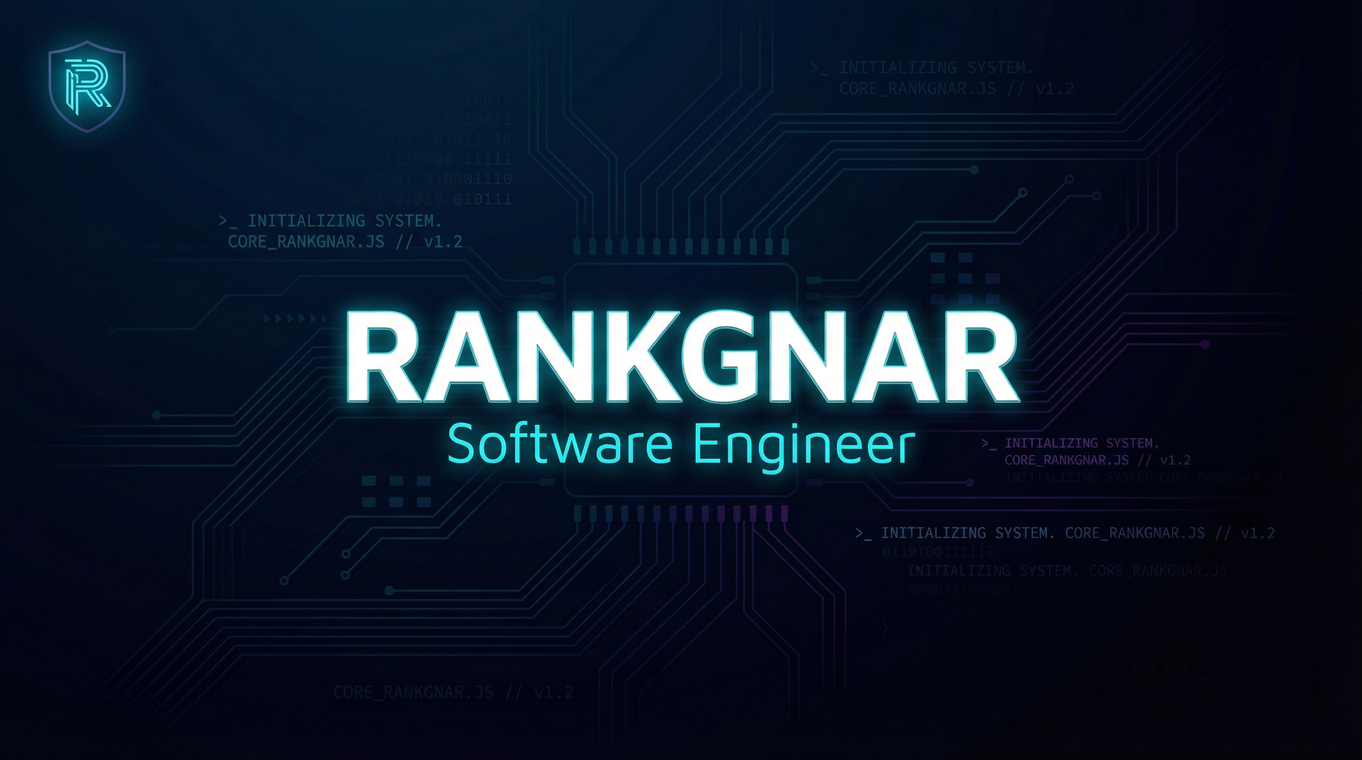
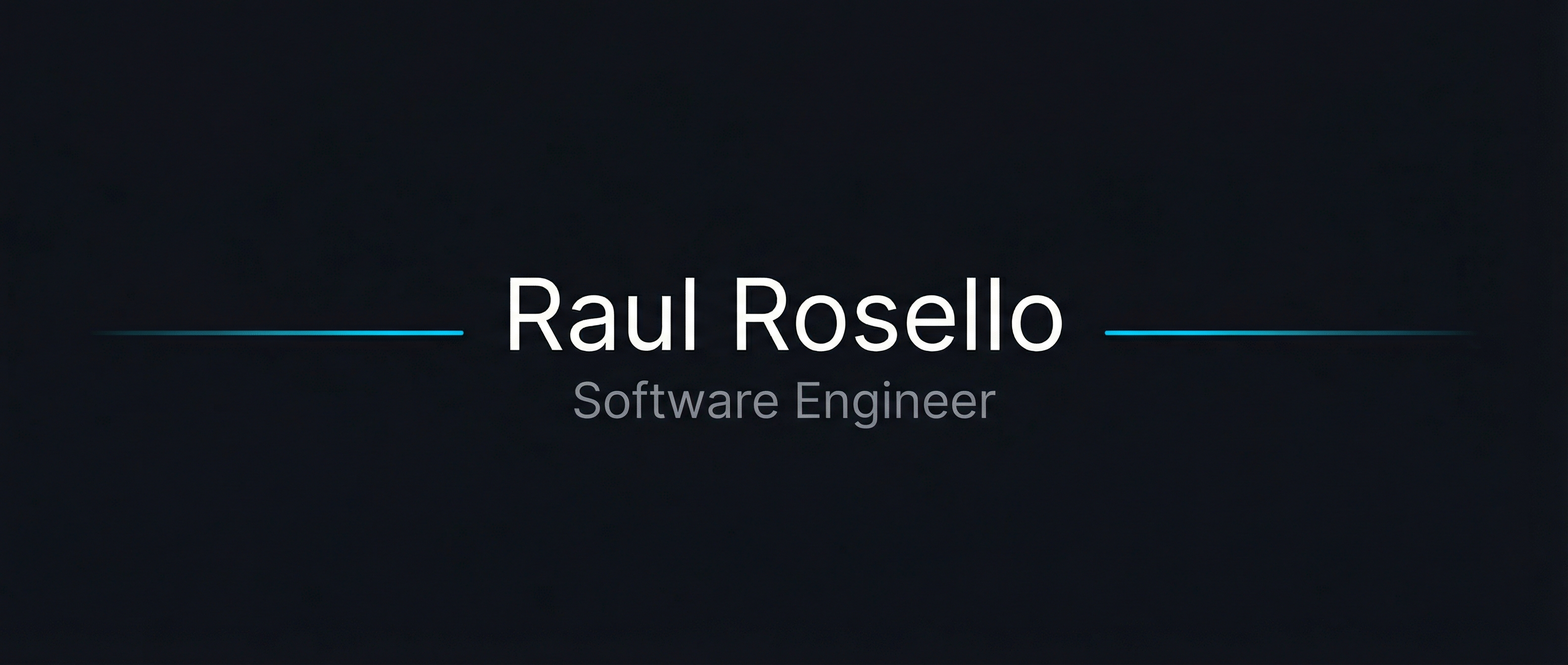
Rewrite profile — clean, professional design

diff --git a/README.md b/README.md
@@ -1,328 +1,49 @@
 <div align="center">
 
-<!-- ═══════════════════════════════════════════════════════════════ -->
-<!-- HEADER -->
-<!-- ═══════════════════════════════════════════════════════════════ -->
-
-<img src="./assets/banner.png" alt="RANKGNAR — Software Engineer" width="100%" />
-
-<br>
-
-<!-- ═══════════════════════════════════════════════════════════════ -->
-<!-- BADGES -->
-<!-- ═══════════════════════════════════════════════════════════════ -->
-
-<a href="https://github.com/rankgnar?tab=followers">
-  <img src="https://img.shields.io/github/followers/rankgnar?style=for-the-badge&logo=github&logoColor=00d4ff&labelColor=0d1117&color=003554" />
-</a>
-&nbsp;
-<img src="https://komarev.com/ghpvc/?username=rankgnar&style=for-the-badge&color=003554&label=PROFILE+VIEWS&labelColor=0d1117" />
-&nbsp;
-<img src="https://img.shields.io/badge/🔨_BUILDING_SOMETHING_BIG-00d4ff?style=for-the-badge&labelColor=0d1117" />
+<img src="./assets/banner.png" alt="Raul Rosello — Software Engineer" width="100%" />
 
 <br><br>
 
-<!-- ═══════════════════════════════════════════════════════════════ -->
-<!-- TYPING SVG -->
-<!-- ═══════════════════════════════════════════════════════════════ -->
-
-<a href="https://github.com/rankgnar">
-  <img src="https://readme-typing-svg.demolab.com?font=JetBrains+Mono&weight=700&size=24&duration=3000&pause=1000&color=00D4FF&center=true&vCenter=true&multiline=true&repeat=true&width=700&height=100&lines=I+turn+ideas+into+revenue+machines.;AI+%C2%B7+Automation+%C2%B7+Scalable+Systems;Less+meetings.+More+shipping.;Your+tech+should+work+for+you+%E2%80%94+not+the+other+way+around." />
-</a>
-
-<br>
-
-<!-- ═══════════════════════════════════════════════════════════════ -->
-<!-- SEPARATOR -->
-<!-- ═══════════════════════════════════════════════════════════════ -->
-
-<img src="https://user-images.githubusercontent.com/73097560/115834477-dbab4500-a447-11eb-908a-139a6edaec5c.gif" width="100%">
+[![GitHub](https://img.shields.io/github/followers/rankgnar?label=Follow&style=flat-square&logo=github&logoColor=white&color=0d1117)](https://github.com/rankgnar)
+[![LinkedIn](https://img.shields.io/badge/LinkedIn-Connect-0A66C2?style=flat-square&logo=linkedin)](https://linkedin.com/in/rankgnar)
 
 </div>
 
-<!-- ═══════════════════════════════════════════════════════════════ -->
-<!-- ABOUT — TERMINAL STYLE -->
-<!-- ═══════════════════════════════════════════════════════════════ -->
+---
 
-<br>
+### About
 
-<div align="center">
-  <h2>
-    <img src="https://media.giphy.com/media/iY8CRBdQXODJSCERIr/giphy.gif" width="28">
-    &nbsp; <code>$ whoami</code>
-  </h2>
-</div>
+Software engineer based in Stockholm, specializing in AI systems, full-stack development, and developer tooling. I build products that solve real problems — from SaaS platforms to security tools for the AI ecosystem.
 
-```js
-// raul.config.js
+Currently focused on AI agent infrastructure and MCP server security.
 
-const raul = {
-    location:    "Stockholm, Sweden 🇸🇪",
-    role:        "Founder & Tech Architect",
-    mission:     "Build systems that print money while you sleep",
+---
 
-    superpower:  "Turning 'that's impossible' into a deployed product",
-    philosophy:  "Ship fast. Measure everything. Let the data decide.",
+### Work
 
-    current:     "Building an elite tech agency from scratch",
-    previous:    "Broke things at scale, then fixed them better",
+| Project | Description | Stack |
+|:--------|:------------|:------|
+| [mcp-audit](https://github.com/rankgnar/mcp-audit) | Security auditor for MCP servers. Detects prompt injection, shadow tools, and data exfiltration. | TypeScript, AST analysis |
+| [fortnox-mcp-server](https://github.com/rankgnar/fortnox-mcp-server) | Read-only MCP server for the Fortnox ERP API. | TypeScript, OAuth2, MCP |
+| [deslop](https://github.com/rankgnar/deslop) | CLI tool to detect and remove AI writing patterns from text. | Python |
+| [vps-secure-setup](https://github.com/rankgnar/vps-secure-setup) | Interactive wizard for hardening VPS servers — SSH, Tailscale, user management. | Bash |
+| [agent-homebase](https://github.com/rankgnar/agent-homebase) | Turn a blank VPS into a 24/7 AI agent with persistent memory and Telegram access. | Node.js, Bun |
 
-    contact:     "If you have a problem and no one else can help,",
-    motto:       "maybe you should hire my team.",
-};
+---
 
-export default raul;
-```
+### Stack
 
-<br>
+**Languages:** TypeScript, Python, Bash
+**Frontend:** React, Next.js, Tailwind CSS
+**Backend:** Node.js, PostgreSQL, Redis
+**AI/ML:** OpenAI, Anthropic Claude, LangChain, RAG pipelines
+**Infra:** Linux, Docker, AWS, Tailscale
 
-<div align="center">
-<img src="https://user-images.githubusercontent.com/73097560/115834477-dbab4500-a447-11eb-908a-139a6edaec5c.gif" width="100%">
-</div>
+---
 
-<br>
+### Contact
 
-<!-- ═══════════════════════════════════════════════════════════════ -->
-<!-- SERVICES -->
-<!-- ═══════════════════════════════════════════════════════════════ -->
+Open to collaborations on AI tooling, security, and developer infrastructure.
 
-<div align="center">
-  <h2>⚡ What I Build</h2>
-  <p><i>End-to-end execution. No fluff. No scope creep.</i></p>
-</div>
-
-<br>
-
-<div align="center">
-<table>
-<tr>
-<td align="center" width="25%">
-
-<br>
-
-<h3>🤖 AI Solutions</h3>
-
-Custom AI agents, LLM integrations, RAG pipelines & intelligent automation that actually saves you money.
-
-<br>
-
-</td>
-<td align="center" width="25%">
-
-<br>
-
-<h3>⚙ Automation</h3>
-
-Kill repetitive work. Workflow engines, API orchestration & zero-touch pipelines that run 24/7.
-
-<br>
-
-</td>
-<td align="center" width="25%">
-
-<br>
-
-<h3>🏗 SaaS & Platforms</h3>
-
-Full-stack MVPs to production systems. Architected for scale from day one, not bolted on later.
-
-<br>
-
-</td>
-<td align="center" width="25%">
-
-<br>
-
-<h3>📊 Data & Analytics</h3>
-
-Real-time dashboards, data pipelines & BI systems that turn noise into actionable decisions.
-
-<br>
-
-</td>
-</tr>
-</table>
-</div>
-
-<br>
-
-<div align="center">
-<img src="https://user-images.githubusercontent.com/73097560/115834477-dbab4500-a447-11eb-908a-139a6edaec5c.gif" width="100%">
-</div>
-
-<br>
-
-<!-- ═══════════════════════════════════════════════════════════════ -->
-<!-- TECH STACK -->
-<!-- ═══════════════════════════════════════════════════════════════ -->
-
-<div align="center">
-  <h2>🛠 Tech Arsenal</h2>
-  <p><i>The right tool for the right job. Always.</i></p>
-
-<br>
-
-**`Languages & Frameworks`**
-
-<a href="https://skillicons.dev">
-  <img src="https://skillicons.dev/icons?i=ts,js,python,rust,react,nextjs,nodejs,tailwind&theme=dark" />
-</a>
-
-<br><br>
-
-**`Cloud, DevOps & Tools`**
-
-<a href="https://skillicons.dev">
-  <img src="https://skillicons.dev/icons?i=aws,gcp,docker,kubernetes,postgres,redis,github,linux&theme=dark" />
-</a>
-
-<br><br>
-
-**`AI & Machine Learning`**
-
-<br>
-
-<img src="https://img.shields.io/badge/OpenAI-412991?style=for-the-badge&logo=openai&logoColor=white" />
-<img src="https://img.shields.io/badge/Anthropic_Claude-191919?style=for-the-badge&logo=anthropic&logoColor=white" />
-<img src="https://img.shields.io/badge/LangChain-1C3C3C?style=for-the-badge&logo=langchain&logoColor=white" />
-<img src="https://img.shields.io/badge/Hugging_Face-FFD21E?style=for-the-badge&logo=huggingface&logoColor=black" />
-<img src="https://img.shields.io/badge/PyTorch-EE4C2C?style=for-the-badge&logo=pytorch&logoColor=white" />
-<img src="https://img.shields.io/badge/Vector_DBs-00d4ff?style=for-the-badge&logoColor=white" />
-
-</div>
-
-<br>
-
-<div align="center">
-<img src="https://user-images.githubusercontent.com/73097560/115834477-dbab4500-a447-11eb-908a-139a6edaec5c.gif" width="100%">
-</div>
-
-<br>
-
-<!-- ═══════════════════════════════════════════════════════════════ -->
-<!-- STATS -->
-<!-- ═══════════════════════════════════════════════════════════════ -->
-
-<div align="center">
-  <h2>📈 By The Numbers</h2>
-</div>
-
-<br>
-
-<div align="center">
-  <a href="https://github.com/rankgnar">
-    <img height="180em" src="https://github-readme-stats.vercel.app/api?username=rankgnar&show_icons=true&theme=github_dark_dimmed&bg_color=0d1117&title_color=00d4ff&icon_color=00d4ff&text_color=c9d1d9&border_color=003554&hide_border=false&count_private=true" />
-  </a>
-  &nbsp;&nbsp;
-  <a href="https://github.com/rankgnar">
-    <img height="180em" src="https://github-readme-stats.vercel.app/api/top-langs/?username=rankgnar&layout=compact&theme=github_dark_dimmed&bg_color=0d1117&title_color=00d4ff&text_color=c9d1d9&border_color=003554&hide_border=false&langs_count=8" />
-  </a>
-</div>
-
-<br>
-
-<div align="center">
-  <a href="https://github.com/rankgnar">
-    <img src="https://github-readme-streak-stats.herokuapp.com/?user=rankgnar&theme=github-dark-blue&background=0d1117&ring=00d4ff&fire=00d4ff&currStreakLabel=00d4ff&sideLabels=58a6ff&border=003554" width="55%" />
-  </a>
-</div>
-
-<br>
-
-<div align="center">
-  <a href="https://github.com/rankgnar">
-    <img src="https://github-readme-activity-graph.vercel.app/graph?username=rankgnar&bg_color=0d1117&color=58a6ff&line=00d4ff&point=ffffff&area_color=003554&area=true&hide_border=false&custom_title=Contribution%20Graph&border_color=003554" width="95%" />
-  </a>
-</div>
-
-<br>
-
-<div align="center">
-<img src="https://user-images.githubusercontent.com/73097560/115834477-dbab4500-a447-11eb-908a-139a6edaec5c.gif" width="100%">
-</div>
-
-<br>
-
-<!-- ═══════════════════════════════════════════════════════════════ -->
-<!-- CURRENTLY BUILDING -->
-<!-- ═══════════════════════════════════════════════════════════════ -->
-
-<div align="center">
-  <h2>🔮 Currently Building</h2>
-  <p><i>Something is coming. And it's not another to-do app.</i></p>
-</div>
-
-<br>
-
-<div align="center">
-
-```
-┌─────────────────────────────────────────────────────────────────┐
-│                                                                 │
-│   PROJECT: ███████████████████████  [CLASSIFIED]                │
-│                                                                 │
-│   Type ........... Elite Tech Agency                            │
-│   Status ......... Stealth Mode 🟢                              │
-│   Location ....... Stockholm, SE                                │
-│   Team ........... Handpicked operators only                    │
-│                                                                 │
-│   ┌───────────────────────────────────────────────────────┐     │
-│   │ Core Infrastructure     ██████████████████░░░░  82%   │     │
-│   │ AI Agent Framework      ███████████████████░░░  88%   │     │
-│   │ Client Pipeline         █████████████░░░░░░░░░  60%   │     │
-│   │ Automation Suite        ████████████████████░░  92%   │     │
-│   │ World Domination        ██░░░░░░░░░░░░░░░░░░░  12%   │     │
-│   └───────────────────────────────────────────────────────┘     │
-│                                                                 │
-│   "We don't build websites. We build unfair advantages."        │
-│                                                                 │
-└─────────────────────────────────────────────────────────────────┘
-```
-
-</div>
-
-<br>
-
-<div align="center">
-<img src="https://user-images.githubusercontent.com/73097560/115834477-dbab4500-a447-11eb-908a-139a6edaec5c.gif" width="100%">
-</div>
-
-<br>
-
-<!-- ═══════════════════════════════════════════════════════════════ -->
-<!-- FOOTER CTA -->
-<!-- ═══════════════════════════════════════════════════════════════ -->
-
-<div align="center">
-  <h2>🎯 Let's Build Something Dangerous</h2>
-
-  <br>
-
-  <p>
-    <em>I don't do "quick calls to pick your brain."<br>
-    But if you have a real problem and real ambition — let's talk.</em>
-  </p>
-
-  <br>
-
-  <a href="https://linkedin.com/in/rankgnar">
-    <img src="https://img.shields.io/badge/LinkedIn-0A66C2?style=for-the-badge&logo=linkedin&logoColor=white&labelColor=0A66C2" height="35" />
-  </a>
-  &nbsp;
-  <a href="https://twitter.com/rankgnar">
-    <img src="https://img.shields.io/badge/X_(Twitter)-000000?style=for-the-badge&logo=x&logoColor=white" height="35" />
-  </a>
-  &nbsp;
-  <a href="mailto:rankgnar@gmail.com">
-    <img src="https://img.shields.io/badge/Email-EA4335?style=for-the-badge&logo=gmail&logoColor=white" height="35" />
-  </a>
-  &nbsp;
-  <a href="https://rankgnar.dev">
-    <img src="https://img.shields.io/badge/Portfolio-00d4ff?style=for-the-badge&logo=googlechrome&logoColor=0d1117" height="35" />
-  </a>
-
-  <br><br><br>
-
-  <img src="https://capsule-render.vercel.app/api?type=soft&color=0:00d4ff,50:003554,100:0d1117&height=120&section=footer&animation=fadeIn" width="100%" />
-
-</div>
+**Email:** rankgnar@gmail.com
+**LinkedIn:** [linkedin.com/in/rankgnar](https://linkedin.com/in/rankgnar)
